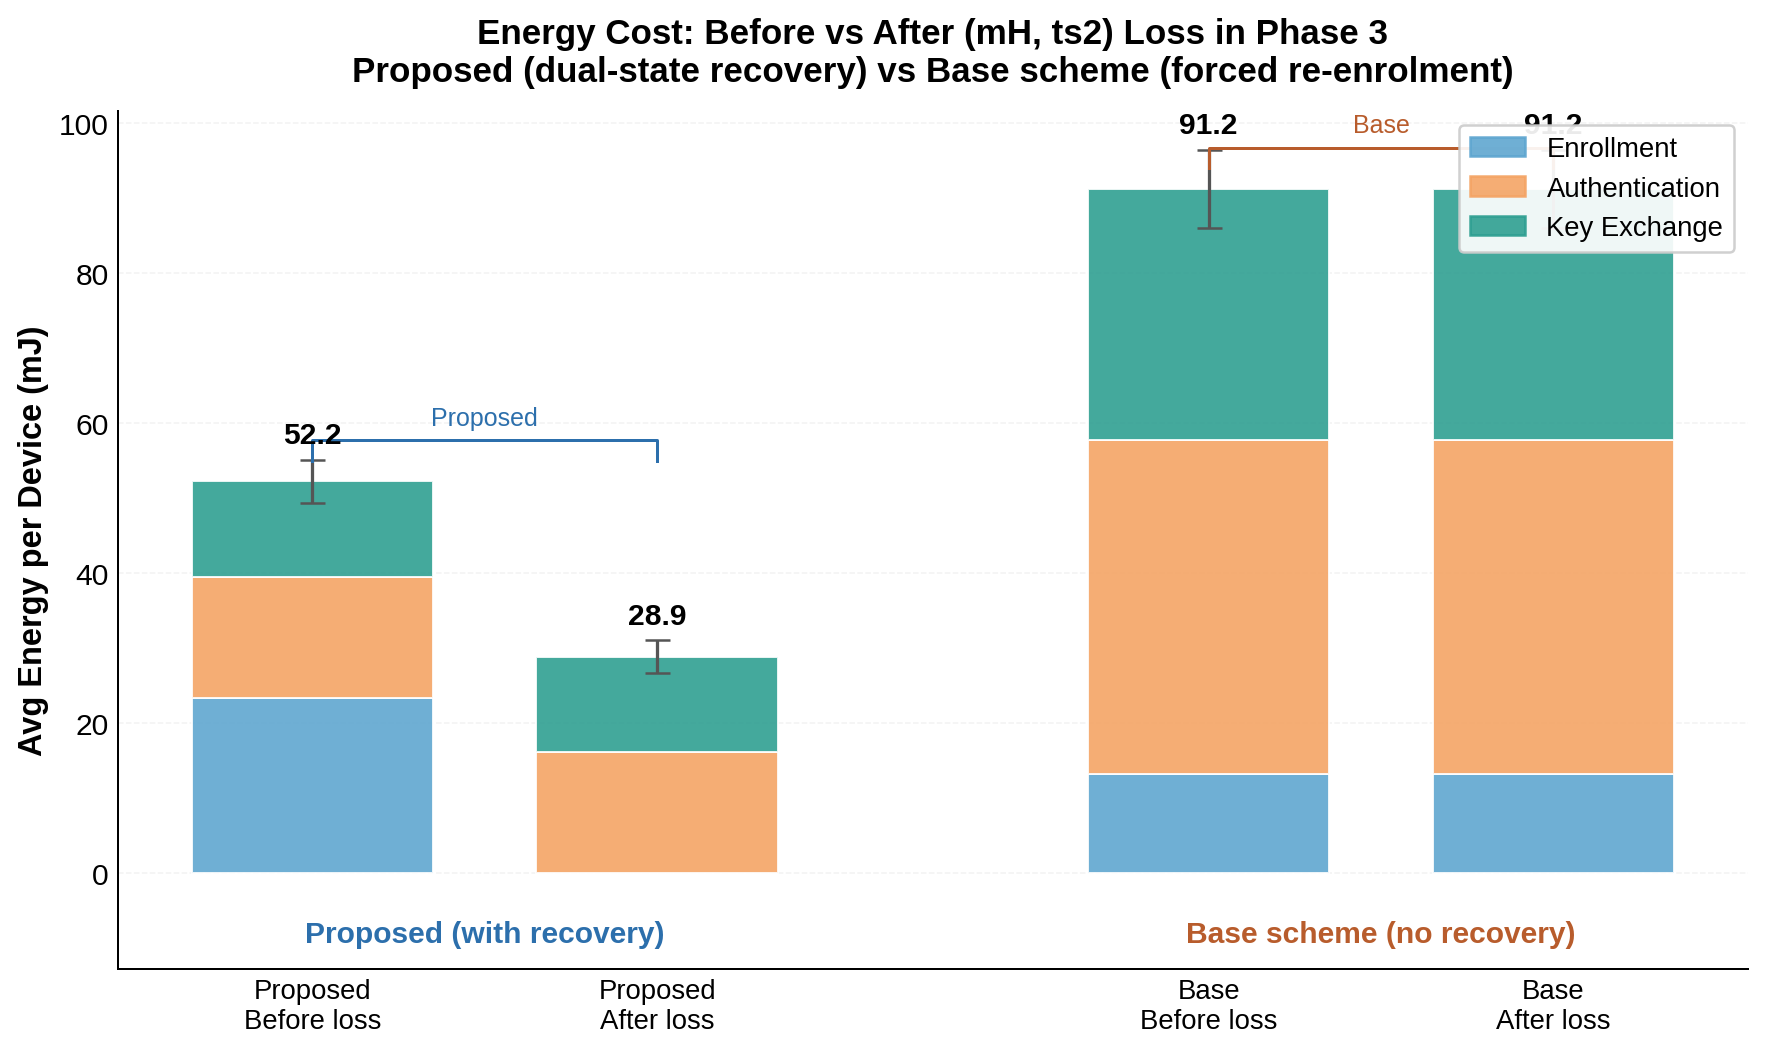
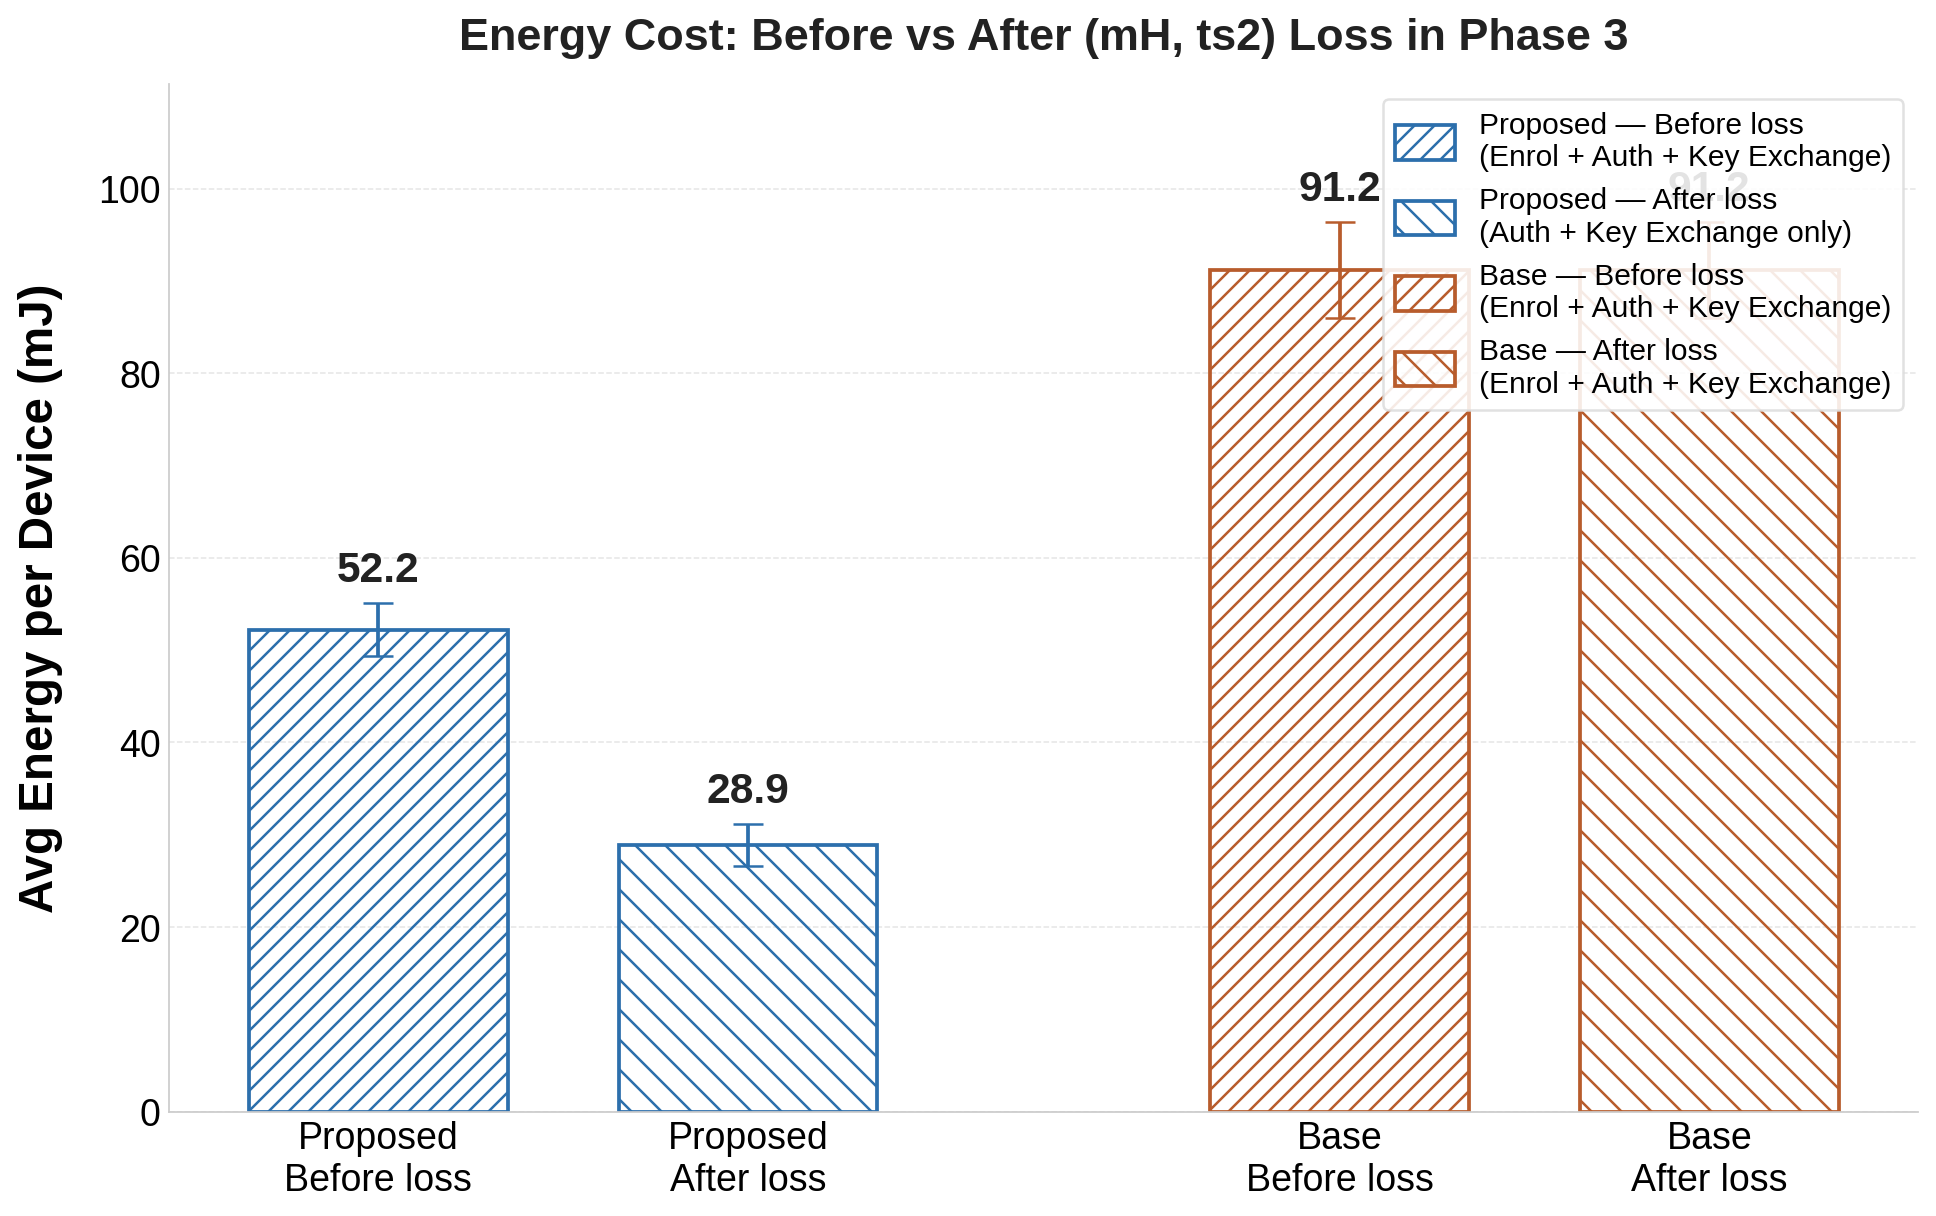
Restyle desync charts to match paper hollow-hatch bar style
Charts now use the same visual language as all other paper figures:
hollow bars, hatch patterns, Liberation Sans, bold labels, dashed grid.

/// hatch = Before loss session (Enrol + Auth + KeyEx)
\\\ hatch = After  loss session (Proposed: Auth+KeyEx; Base: Enrol+Auth+KeyEx)
Blue edge = Proposed scheme, Orange edge = Base scheme

diff --git a/Scripts/Simulation-Runners/plot_desync_proposed_vs_base.py b/Scripts/Simulation-Runners/plot_desync_proposed_vs_base.py
@@ -1,23 +1,25 @@
 """
 plot_desync_proposed_vs_base.py
-Two 4-bar charts comparing Proposed vs Base scheme across a desync event.
+Two 4-bar charts (energy + CPU) matching the paper chart style exactly.
 
 SCENARIO
 --------
-Phase 3 Key Exchange: AS sends (mH, ts2) to D.
-If this packet is lost, D retains stale m_curr and cannot update its PID.
+Phase 3: AS sends (mH, ts2) to D. If lost, D retains stale m_curr.
 
-Before-loss session  = Enrollment + Authentication + Key Exchange
+Before-loss session = Enrollment + Authentication + Key Exchange
 After-loss session:
-  Proposed — dual-state (m_curr, m_old, PID_curr, PID_old): D presents PID_old,
-             AS recognises it and re-runs Phase 3. No re-enrolment.
-             After-loss cost = Authentication + Key Exchange only.
-  Base     — stores only m_curr; nonce mismatch → auth rejected → forced re-enrol.
-             After-loss cost = Enrollment + Authentication + Key Exchange.
+  Proposed — dual-state lookup finds PID_old, re-runs Phase 3. No re-enrol.
+             After cost = Authentication + Key Exchange only.
+  Base     — nonce mismatch → auth rejected → forced re-enrol.
+             After cost = Enrollment + Authentication + Key Exchange.
+
+Visual style: hollow hatched bars, Liberation Sans, matching paper figures.
+  Same hatch angle = same condition (Before / After)
+  Same edge colour = same scheme (Proposed / Base)
 
 OUTPUTS → Results/Desync-Recovery-Analysis/
-  01_energy_before_after.png   — 4-bar energy chart
-  02_cpu_before_after.png      — 4-bar CPU time chart
+  01_energy_before_after.png
+  02_cpu_before_after.png
 """
 
 import os, csv, math
@@ -33,89 +35,88 @@ SRC_CSV = os.path.join(REPO, "Results", "Charts",
 OUT_DIR = os.path.join(REPO, "Results", "Desync-Recovery-Analysis")
 os.makedirs(OUT_DIR, exist_ok=True)
 
-STYLE = {
+# ── exact paper style ────────────────────────────────────────────────────────
+_CHART_STYLE = {
     "font.family":       "Liberation Sans",
-    "font.size":         13,
-    "axes.titlesize":    14,
+    "font.size":         15,
+    "axes.titlesize":    18,
     "axes.titleweight":  "bold",
-    "axes.labelsize":    13,
+    "axes.labelsize":    19,
     "axes.spines.top":   False,
     "axes.spines.right": False,
-    "xtick.labelsize":   12,
-    "ytick.labelsize":   12,
+    "axes.linewidth":    0.7,
+    "xtick.labelsize":   15,
+    "ytick.labelsize":   15,
     "xtick.major.size":  0,
-    "legend.fontsize":   11,
-    "legend.framealpha": 0.92,
+    "legend.fontsize":   14,
+    "legend.framealpha": 0.9,
     "legend.edgecolor":  "#cccccc",
     "grid.color":        "#e5e5e5",
     "grid.linewidth":    0.6,
 }
 
-C_ENROLL = "#5BA4CF"
-C_AUTH   = "#F4A261"
-C_KEYEX  = "#2A9D8F"
+C_PROPOSED = "#2C6FAC"   # muted steel blue  (paper Proposed)
+C_BASE     = "#B85C2C"   # terracotta        (paper LAAKA = base scheme)
+
+# Same hatch angle = same condition; same colour = same scheme
+# Before loss → forward-slash hatch  ///
+# After loss  → backward-slash hatch  \\\
+H_BEFORE = "///"
+H_AFTER  = "\\\\"
 
 
+# ── data loading ─────────────────────────────────────────────────────────────
 def load():
-    data = {}
+    d = {}
     with open(SRC_CSV, newline="", encoding="utf-8") as f:
         for row in csv.DictReader(f):
             key = ("Proposed" if row["Scheme"] == "Revised-Anonymity" else
                    "Base"     if row["Scheme"] == "LAAKA"             else None)
             if key is None:
                 continue
-            data.setdefault(key, {})[row["Phase"]] = {
+            d.setdefault(key, {})[row["Phase"]] = {
                 "e":    float(row["Avg_Energy_mJ"]),
                 "ci_e": float(row["CI95_Energy_mJ"]),
                 "c":    float(row["Avg_CPU_s"]),
                 "ci_c": float(row["CI95_CPU_s"]),
             }
-    return data
+    return d
 
 
+# ── chart generator ───────────────────────────────────────────────────────────
 def make_chart(data, metric, ylabel, title, filename):
     """
-    4-bar grouped chart:
-      Group 1 — Proposed: [Before | After]
-      Group 2 — Base:     [Before | After]
+    4-bar grouped chart in the paper's hollow-hatch style.
 
-    Each bar is phase-stacked: Enrollment / Authentication / Key Exchange.
-    Before = Enrol + Auth + KeyEx  (same for both schemes).
-    After  = Proposed: Auth + KeyEx  |  Base: Enrol + Auth + KeyEx.
+    Layout (gap between scheme groups):
+      pos 0: Proposed — Before loss   (/// blue)
+      pos 1: Proposed — After  loss   (\\\ blue)
+      [gap]
+      pos 2.6: Base — Before loss     (/// orange)
+      pos 3.6: Base — After  loss     (\\\ orange)
     """
     ci_key = "ci_e" if metric == "e" else "ci_c"
 
-    # Proposed
-    p_en = data["Proposed"]["Enrollment"][metric]
-    p_au = data["Proposed"]["Authentication"][metric]
-    p_kx = data["Proposed"]["Key Exchange"][metric]
-    p_ak = data["Proposed"]["Auth+KeyEx"][metric]
-    p_ci_b = math.sqrt(data["Proposed"]["Enrollment"][ci_key]**2 +
-                       data["Proposed"]["Auth+KeyEx"][ci_key]**2)
-    p_ci_a = data["Proposed"]["Auth+KeyEx"][ci_key]
+    p = data["Proposed"]
+    b = data["Base"]
 
-    # Base
-    b_en = data["Base"]["Enrollment"][metric]
-    b_au = data["Base"]["Authentication"][metric]
-    b_kx = data["Base"]["Key Exchange"][metric]
-    b_ak = data["Base"]["Auth+KeyEx"][metric]
-    b_ci_b = math.sqrt(data["Base"]["Enrollment"][ci_key]**2 +
-                       data["Base"]["Auth+KeyEx"][ci_key]**2)
-    b_ci_a = math.sqrt(data["Base"]["Enrollment"][ci_key]**2 +
-                       data["Base"]["Auth+KeyEx"][ci_key]**2)
-
-    # Bar positions: 4 bars with a gap between the two groups
-    # Proposed-Before=0, Proposed-After=1, gap, Base-Before=2.6, Base-After=3.6
-    pos = [0, 1, 2.6, 3.6]
-    w   = 0.7
-
-    # Stacked values for each bar
-    #           P-Before        P-After      B-Before      B-After
-    enroll_v = [p_en,           0,           b_en,         b_en]
-    auth_v   = [p_au,           p_au,        b_au,         b_au]
-    keyex_v  = [p_kx,           p_kx,        b_kx,         b_kx]
-    totals   = [p_en+p_ak,      p_ak,        b_en+b_ak,    b_en+b_ak]
-    cis      = [p_ci_b,         p_ci_a,      b_ci_b,       b_ci_a]
+    # Before = Enrol + Auth+KeyEx, After = Proposed:Auth+KeyEx / Base:Enrol+Auth+KeyEx
+    vals = [
+        p["Enrollment"][metric] + p["Auth+KeyEx"][metric],   # P-Before
+        p["Auth+KeyEx"][metric],                              # P-After
+        b["Enrollment"][metric] + b["Auth+KeyEx"][metric],   # B-Before
+        b["Enrollment"][metric] + b["Auth+KeyEx"][metric],   # B-After
+    ]
+    cis = [
+        math.sqrt(p["Enrollment"][ci_key]**2 + p["Auth+KeyEx"][ci_key]**2),
+        p["Auth+KeyEx"][ci_key],
+        math.sqrt(b["Enrollment"][ci_key]**2 + b["Auth+KeyEx"][ci_key]**2),
+        math.sqrt(b["Enrollment"][ci_key]**2 + b["Auth+KeyEx"][ci_key]**2),
+    ]
+    colors  = [C_PROPOSED, C_PROPOSED, C_BASE, C_BASE]
+    hatches = [H_BEFORE,   H_AFTER,    H_BEFORE, H_AFTER]
+    pos     = [0, 1, 2.6, 3.6]
+    w       = 0.7
 
     xlabels = [
         "Proposed\nBefore loss",
@@ -124,63 +125,52 @@ def make_chart(data, metric, ylabel, title, filename):
         "Base\nAfter loss",
     ]
 
-    with plt.rc_context(STYLE):
-        fig, ax = plt.subplots(figsize=(10, 6))
+    with plt.rc_context(_CHART_STYLE):
+        fig, ax = plt.subplots(figsize=(11, 7))
         fig.patch.set_facecolor("white")
 
-        for i in range(4):
-            ev, av, kv = enroll_v[i], auth_v[i], keyex_v[i]
-            ci, tot = cis[i], totals[i]
-            alpha = 0.88
+        fmt = ".1f" if metric == "e" else ".3f"
+        max_val = max(vals)
 
-            ax.bar(pos[i], ev, w, color=C_ENROLL, alpha=alpha,
-                   edgecolor="white", linewidth=0.8)
-            ax.bar(pos[i], av, w, bottom=ev, color=C_AUTH, alpha=alpha,
-                   edgecolor="white", linewidth=0.8)
-            ax.bar(pos[i], kv, w, bottom=ev + av, color=C_KEYEX, alpha=alpha,
-                   edgecolor="white", linewidth=0.8,
-                   yerr=ci, capsize=5,
-                   error_kw={"linewidth": 1.3, "ecolor": "#555"})
-
-            fmt = ".1f" if metric == "e" else ".3f"
-            ax.text(pos[i], tot + ci + (max(totals)*0.015),
-                    f"{tot:{fmt}}",
-                    ha="center", va="bottom", fontsize=12, fontweight="bold")
-
-        # Group labels underneath
-        ax.text(0.5,  -max(totals)*0.10, "Proposed (with recovery)",
-                ha="center", fontsize=12, color="#2C6FAC", fontweight="bold")
-        ax.text(3.1, -max(totals)*0.10, "Base scheme (no recovery)",
-                ha="center", fontsize=12, color="#B85C2C", fontweight="bold")
-
-        # Bracket lines above each pair
-        def bracket(x1, x2, y, label, color):
-            pad = max(totals) * 0.03
-            ax.plot([x1, x1, x2, x2], [y+pad, y+2*pad, y+2*pad, y+pad],
-                    color=color, lw=1.2)
-            ax.text((x1+x2)/2, y+2.5*pad, label,
-                    ha="center", va="bottom", fontsize=10, color=color)
-
-        bracket(pos[0], pos[1], max(totals[0], totals[1]),
-                "Proposed", "#2C6FAC")
-        bracket(pos[2], pos[3], max(totals[2], totals[3]),
-                "Base", "#B85C2C")
+        for xi, (v, ci, color, hatch) in enumerate(zip(vals, cis, colors, hatches)):
+            ax.bar(pos[xi], v, w,
+                   facecolor="none", edgecolor=color,
+                   hatch=hatch, linewidth=1.5,
+                   yerr=ci, capsize=6,
+                   error_kw={"linewidth": 1.5, "ecolor": color})
+            ax.text(pos[xi], v + ci + max_val * 0.015,
+                    f"{v:{fmt}}",
+                    ha="center", va="bottom",
+                    fontsize=17, fontweight="bold", color="#222222")
 
         ax.set_xticks(pos)
-        ax.set_xticklabels(xlabels, fontsize=11)
-        ax.set_ylabel(ylabel, fontsize=13, fontweight="bold")
-        ax.set_title(title, fontsize=14, fontweight="bold", pad=12)
-        ax.yaxis.grid(True, linestyle="--", alpha=0.5)
+        ax.set_xticklabels(xlabels, rotation=0, ha="center", fontsize=15)
+        ax.set_ylabel(ylabel, labelpad=14, fontsize=19, fontweight="bold")
+        ax.set_title(title, fontsize=18, fontweight="bold", pad=14, color="#222222")
+        ax.yaxis.grid(True, linestyle="--", linewidth=0.6, color="#e5e5e5")
         ax.set_axisbelow(True)
         ax.tick_params(axis="y", length=0)
-        ax.set_ylim(bottom=-max(totals)*0.14)
+        ax.spines["left"].set_color("#cccccc")
+        ax.spines["bottom"].set_color("#cccccc")
+        ax.set_ylim(0, max_val * 1.22)
 
         legend_handles = [
-            mpatches.Patch(color=C_ENROLL, alpha=0.88, label="Enrollment"),
-            mpatches.Patch(color=C_AUTH,   alpha=0.88, label="Authentication"),
-            mpatches.Patch(color=C_KEYEX,  alpha=0.88, label="Key Exchange"),
+            mpatches.Patch(facecolor="none", edgecolor=C_PROPOSED,
+                           hatch=H_BEFORE, linewidth=1.5,
+                           label="Proposed — Before loss\n(Enrol + Auth + Key Exchange)"),
+            mpatches.Patch(facecolor="none", edgecolor=C_PROPOSED,
+                           hatch=H_AFTER,  linewidth=1.5,
+                           label="Proposed — After loss\n(Auth + Key Exchange only)"),
+            mpatches.Patch(facecolor="none", edgecolor=C_BASE,
+                           hatch=H_BEFORE, linewidth=1.5,
+                           label="Base — Before loss\n(Enrol + Auth + Key Exchange)"),
+            mpatches.Patch(facecolor="none", edgecolor=C_BASE,
+                           hatch=H_AFTER,  linewidth=1.5,
+                           label="Base — After loss\n(Enrol + Auth + Key Exchange)"),
         ]
-        ax.legend(handles=legend_handles, loc="upper right", fontsize=11)
+        ax.legend(handles=legend_handles, loc="upper right",
+                  fontsize=12, framealpha=0.88,
+                  edgecolor="#dddddd", handlelength=2.0, handleheight=1.4)
 
         fig.tight_layout()
         out = os.path.join(OUT_DIR, filename)
@@ -192,27 +182,16 @@ def make_chart(data, metric, ylabel, title, filename):
 def main():
     data = load()
 
-    fmt = ".2f"
-    p_before = data["Proposed"]["Enrollment"]["e"] + data["Proposed"]["Auth+KeyEx"]["e"]
-    p_after  = data["Proposed"]["Auth+KeyEx"]["e"]
-    b_before = data["Base"]["Enrollment"]["e"] + data["Base"]["Auth+KeyEx"]["e"]
-    b_after  = data["Base"]["Enrollment"]["e"] + data["Base"]["Auth+KeyEx"]["e"]
-    print(f"Proposed before={p_before:.2f} mJ  after={p_after:.2f} mJ")
-    print(f"Base     before={b_before:.2f} mJ  after={b_after:.2f} mJ")
-
     make_chart(
         data, "e",
         "Avg Energy per Device (mJ)",
-        "Energy Cost: Before vs After (mH, ts2) Loss in Phase 3\n"
-        "Proposed (dual-state recovery) vs Base scheme (forced re-enrolment)",
+        "Energy Cost: Before vs After (mH, ts2) Loss in Phase 3",
         "01_energy_before_after.png",
     )
-
     make_chart(
         data, "c",
         "Avg CPU Time per Device (s)",
-        "CPU Time: Before vs After (mH, ts2) Loss in Phase 3\n"
-        "Proposed (dual-state recovery) vs Base scheme (forced re-enrolment)",
+        "CPU Time: Before vs After (mH, ts2) Loss in Phase 3",
         "02_cpu_before_after.png",
     )
 
